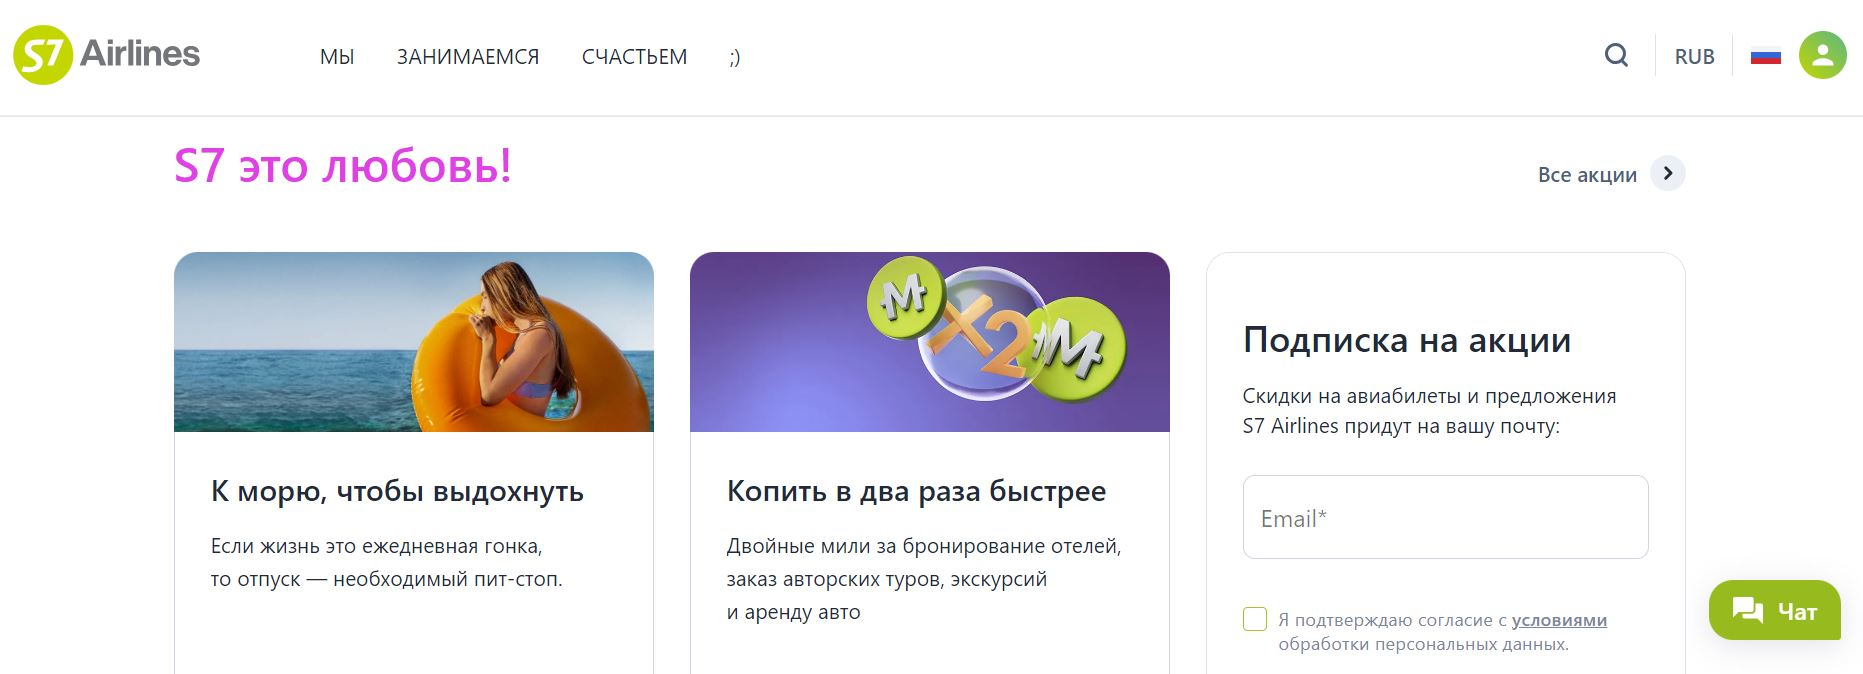
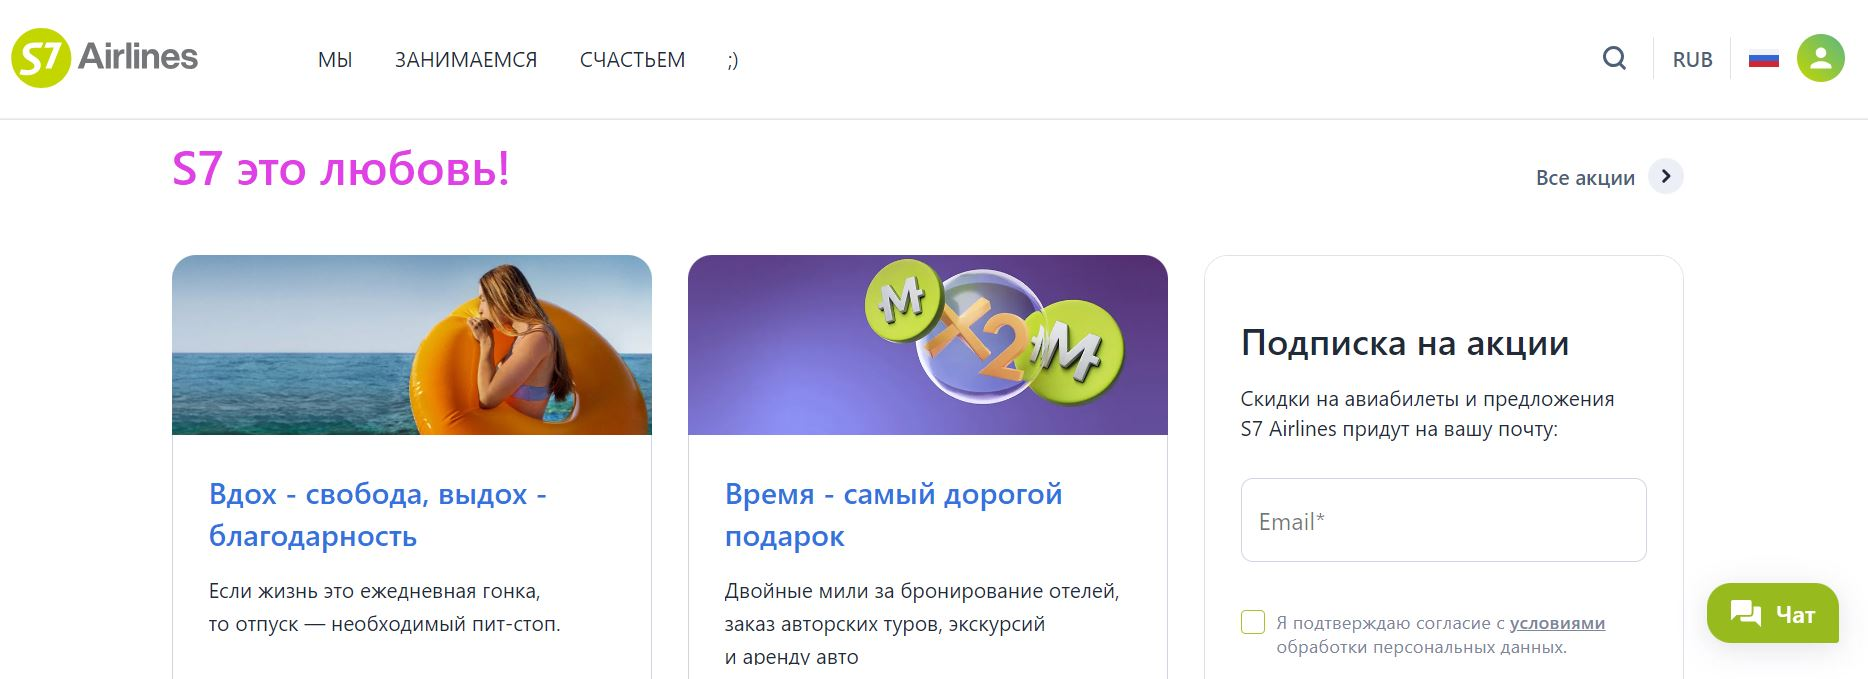
added jpg 02

diff --git a/Exam_file.md b/Exam_file.md
@@ -14,3 +14,6 @@
 
 Скриншоты во вложении.
 
+* Изменен текст шапки (5 изменений)
+* Изменен текст подзаголовка в зоне контента (1 изменение)
+* Изменен цвет подзаголовка в зоне контента (1 изменение)
